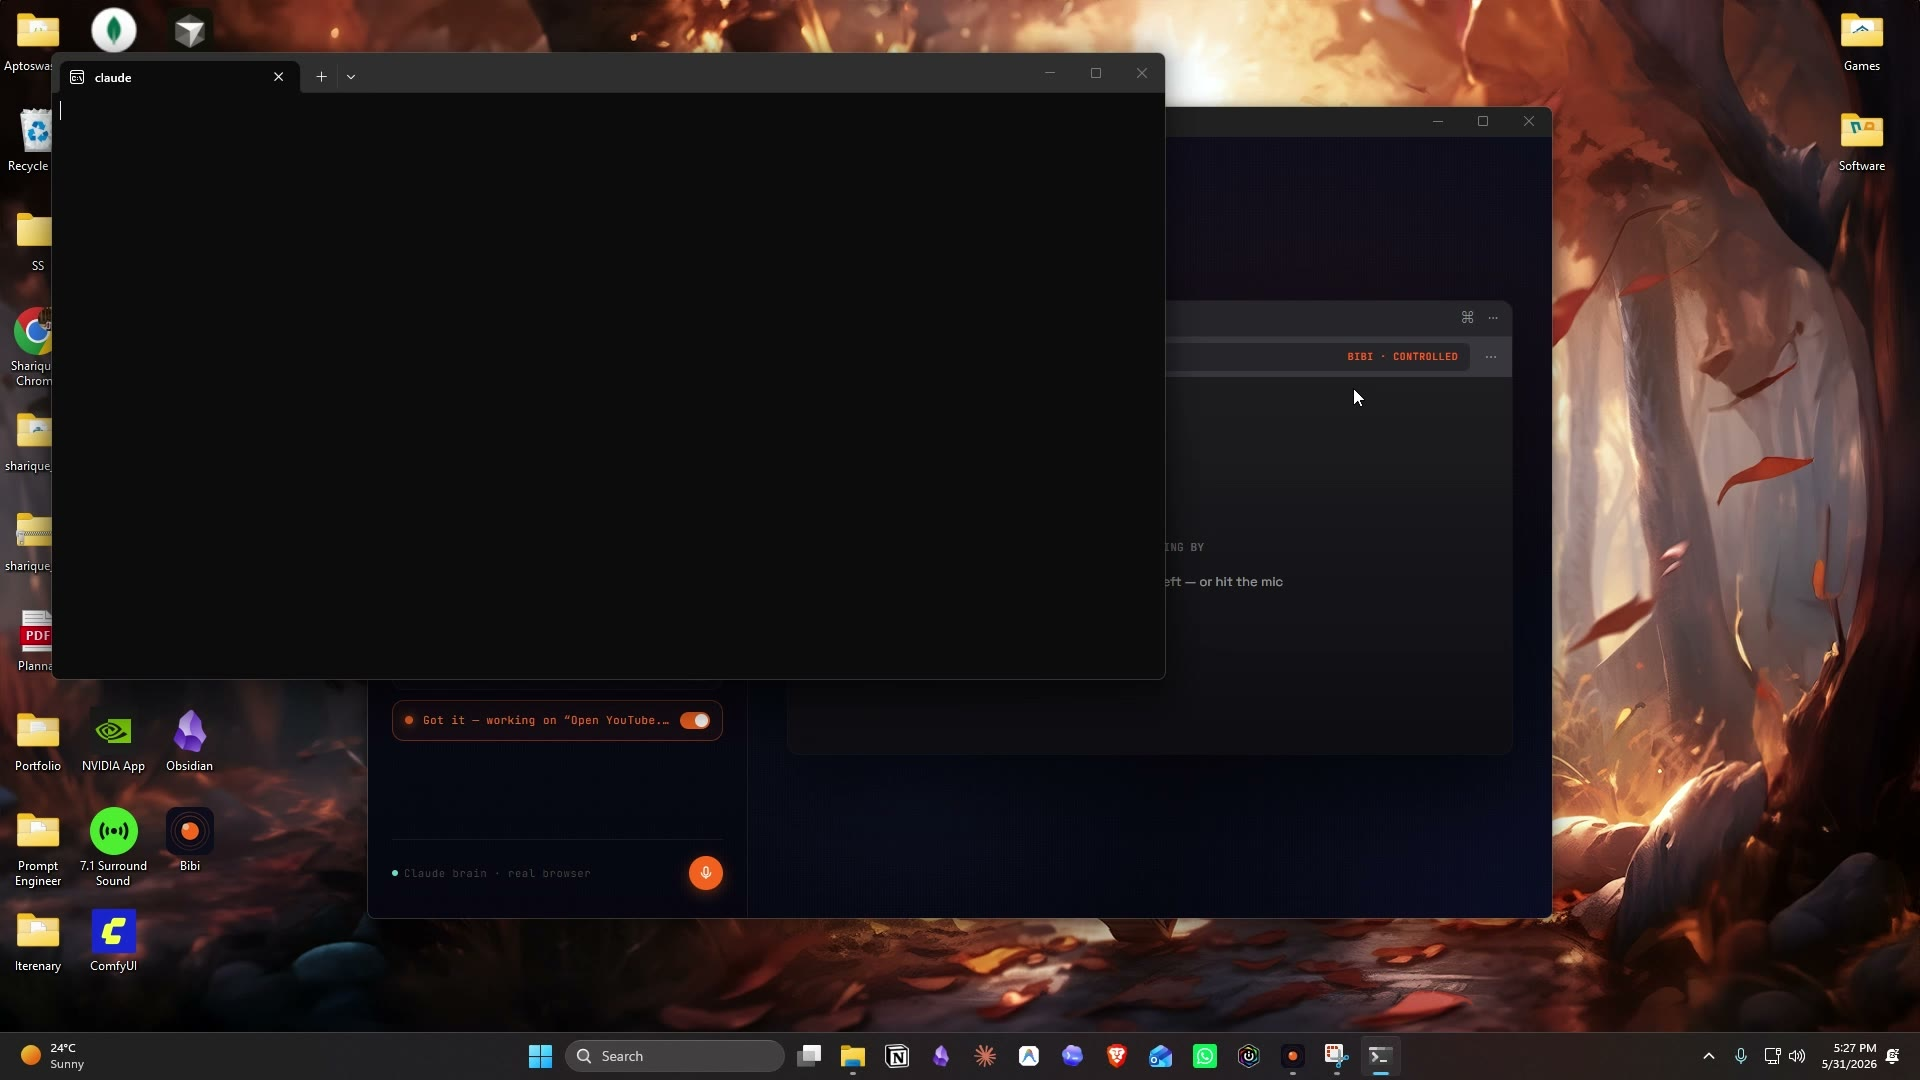
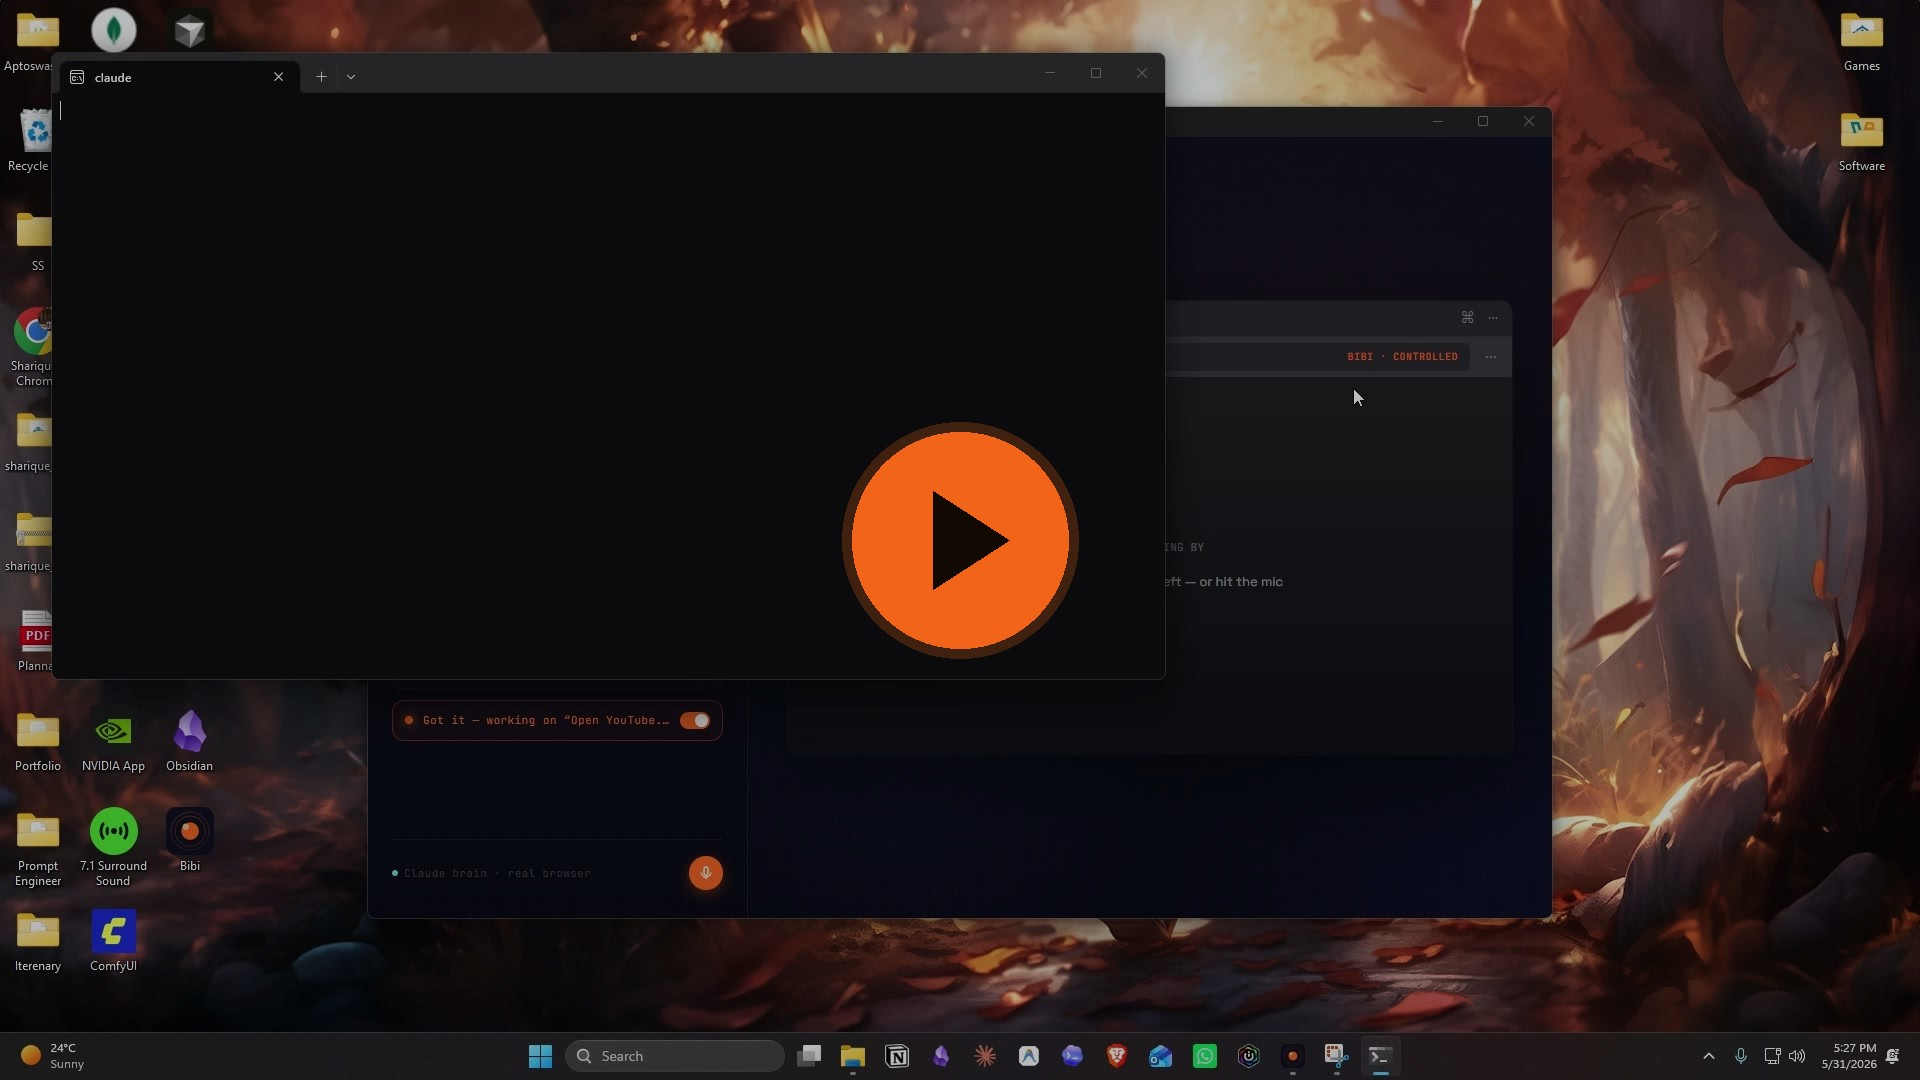
Show demo as a clickable poster in README
GitHub strips inline <video> tags for committed files, so use the demo
poster (with a play button) linked to the video — clicking opens GitHub's player.

diff --git a/README.md b/README.md
@@ -23,9 +23,9 @@
 
 ## 🎬 See it in action
 
-<video src="https://github.com/sharique2004/pc-assistant/raw/main/docs/bibi-demo.mp4" poster="https://github.com/sharique2004/pc-assistant/raw/main/docs/bibi-poster.jpg" controls width="100%"></video>
+[![Watch the Bibi demo — 40 seconds](docs/bibi-poster.jpg)](docs/bibi-demo.mp4)
 
-> ▶️ **[Watch the 40‑second demo](docs/bibi-demo.mp4)** (if the player above doesn't load) — Bibi running a real Windows desktop, by voice.
+> ▶️ **[Watch the 40‑second demo →](docs/bibi-demo.mp4)** Bibi running a real Windows desktop, by voice. *(Click the thumbnail to play.)*
 
 A session looks like this:
 